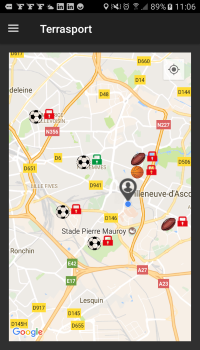
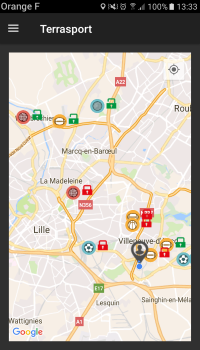
mise à jour markers map

diff --git a/app/src/main/java/com/terrasport/fragment/TerrainFragment.java b/app/src/main/java/com/terrasport/fragment/TerrainFragment.java
@@ -21,7 +21,6 @@ import android.support.annotation.DrawableRes;
 import android.support.annotation.Nullable;
 import android.support.v4.app.ActivityCompat;
 import android.support.v4.app.Fragment;
-import android.support.v4.app.FragmentTransaction;
 import android.support.v7.widget.SwitchCompat;
 import android.text.Editable;
 import android.text.TextWatcher;
@@ -38,11 +37,8 @@ import android.widget.DatePicker;
 import android.widget.EditText;
 import android.widget.ImageView;
 import android.widget.Spinner;
-import android.widget.Switch;
 import android.widget.TextView;
 import android.widget.TimePicker;
-import android.widget.Toast;
-import android.widget.ToggleButton;
 
 import com.google.android.gms.maps.CameraUpdateFactory;
 import com.google.android.gms.maps.GoogleMap;
@@ -72,8 +68,6 @@ import org.springframework.web.client.RestTemplate;
 
 import java.io.IOException;
 import java.sql.Timestamp;
-import java.text.DateFormat;
-import java.text.SimpleDateFormat;
 import java.util.ArrayList;
 import java.util.Calendar;
 import java.util.GregorianCalendar;
@@ -245,7 +239,16 @@ public class TerrainFragment extends Fragment implements OnMapReadyCallback, Goo
                 drawable = R.drawable.map_marker_rugby;
                 break;
             case 4:
-                drawable = R.drawable.map_marker_foot;
+                drawable = R.drawable.map_marker_handball;
+                break;
+            case 5:
+                drawable = R.drawable.map_marker_golf;
+                break;
+            case 6:
+                drawable = R.drawable.map_marker_baseball;
+                break;
+            case 7:
+                drawable = R.drawable.map_marker_tennis;
                 break;
         }
         BitmapDescriptor bitmap = BitmapDescriptorFactory.fromBitmap(getMarkerBitmapFromView(drawable, terrain.getIsPublic()));
@@ -328,7 +331,16 @@ public class TerrainFragment extends Fragment implements OnMapReadyCallback, Goo
                         drawable = R.drawable.map_marker_rugby;
                         break;
                     case 4:
-                        drawable = R.drawable.map_marker_foot;
+                        drawable = R.drawable.map_marker_handball;
+                        break;
+                    case 5:
+                        drawable = R.drawable.map_marker_golf;
+                        break;
+                    case 6:
+                        drawable = R.drawable.map_marker_baseball;
+                        break;
+                    case 7:
+                        drawable = R.drawable.map_marker_tennis;
                         break;
                 }
                 bitmap = BitmapDescriptorFactory.fromBitmap(getMarkerBitmapFromView(drawable, this.terrains.get(i).getIsPublic()));
@@ -675,6 +687,15 @@ public class TerrainFragment extends Fragment implements OnMapReadyCallback, Goo
                 break;
             case 4:
                 drawable = R.drawable.map_marker_handball;
+                break;
+            case 5:
+                drawable = R.drawable.map_marker_golf;
+                break;
+            case 6:
+                drawable = R.drawable.map_marker_baseball;
+                break;
+            case 7:
+                drawable = R.drawable.map_marker_tennis;
                 break;
         }
         return drawable;

diff --git a/app/src/main/java/com/terrasport/utils/Globals.java b/app/src/main/java/com/terrasport/utils/Globals.java
@@ -23,8 +23,8 @@ public class Globals {
         if(instance == null){
             instance = new Globals();
         }
-        instance.baseUrl = "http://192.168.1.24:8080/";
-        // instance.baseUrl = "http://172.19.152.67:8080/";
+        // instance.baseUrl = "http://192.168.1.24:8080/";
+        instance.baseUrl = "http://172.19.158.134:8080/";
         return instance;
     }
 }
